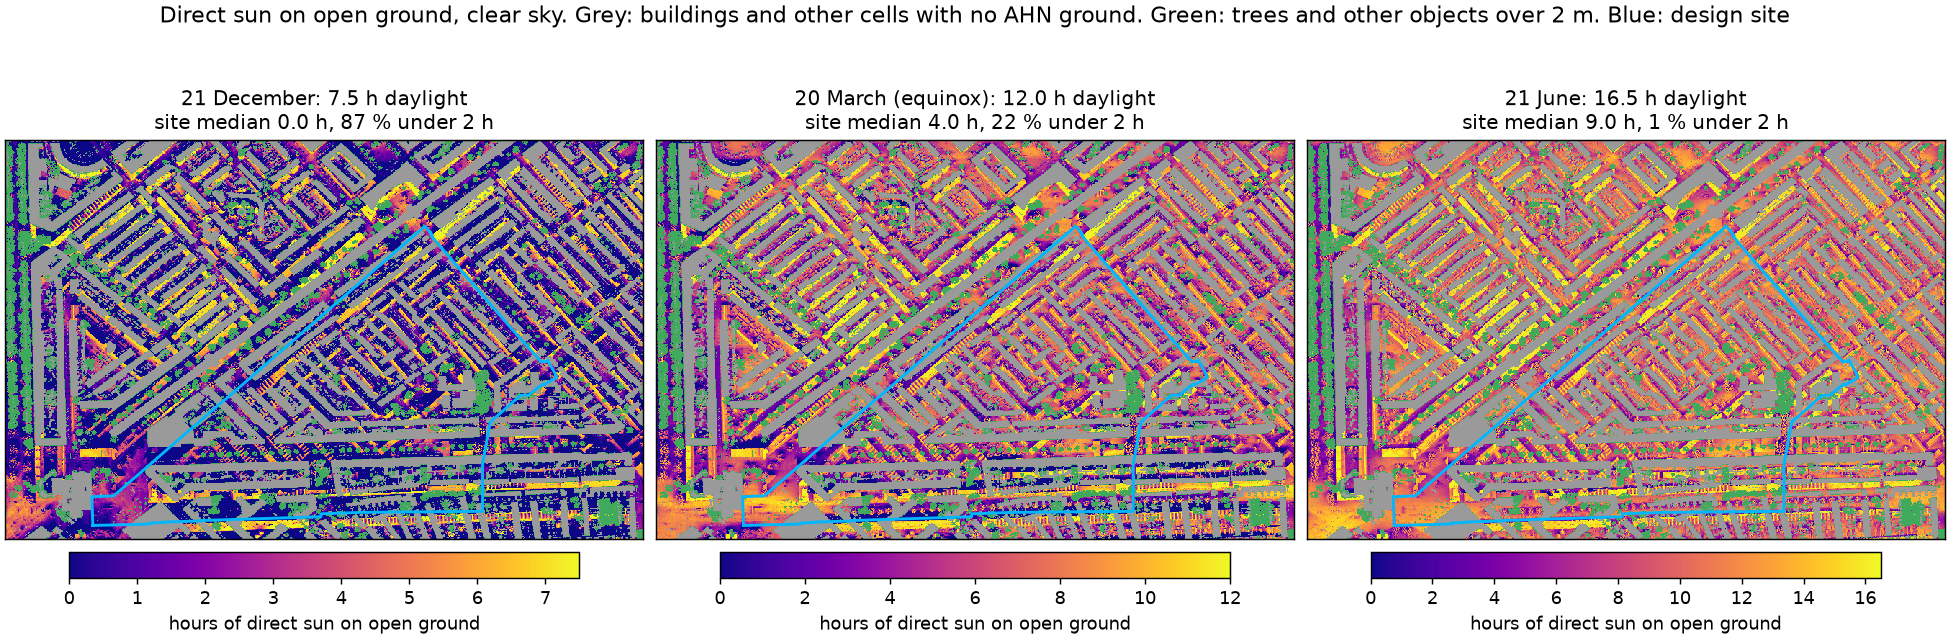
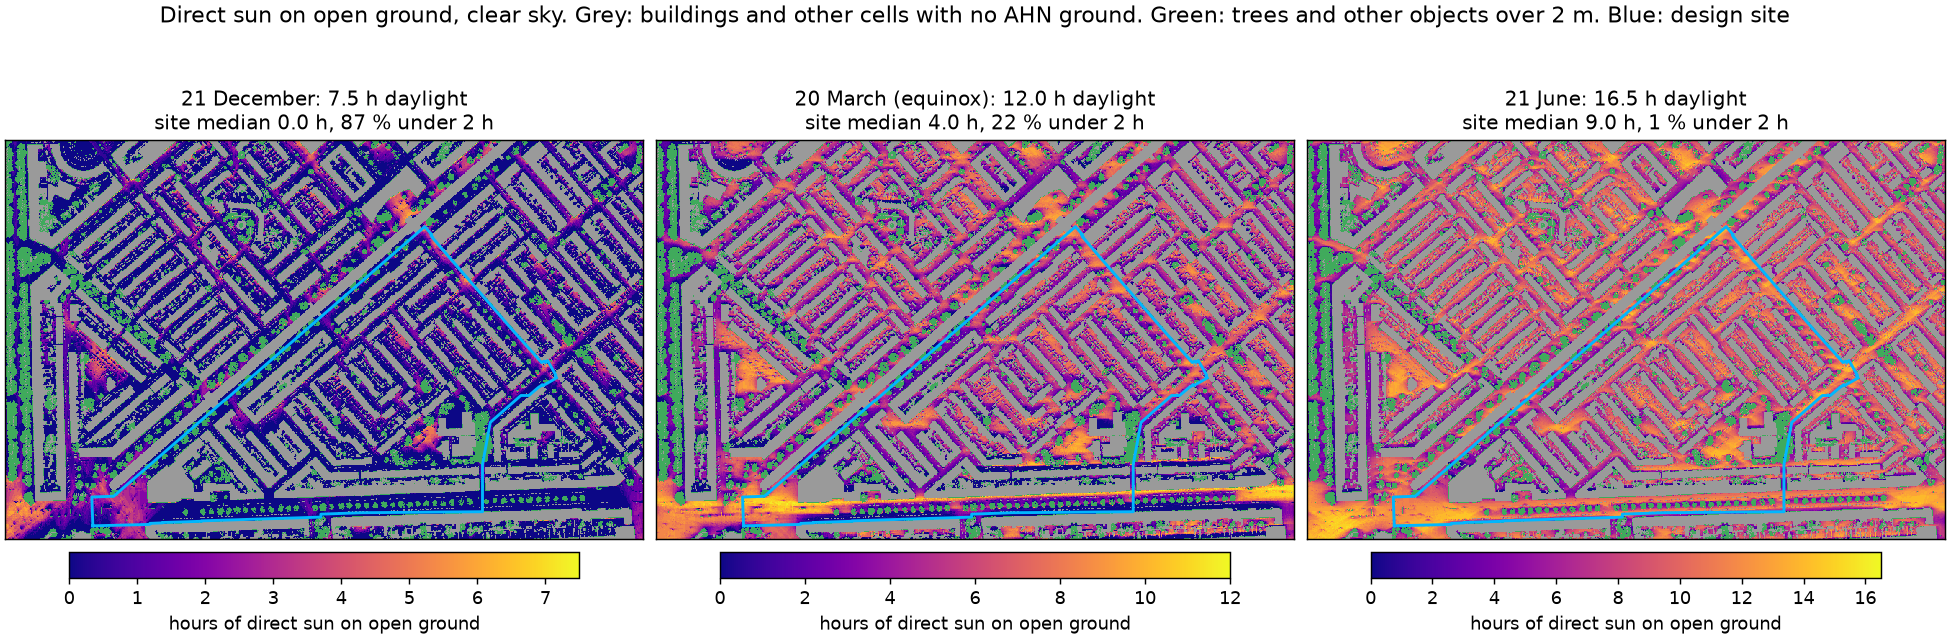
Sun-hours figure: grey building mask read over the sun raster's own extent, it was squeezed and drifted up to 30 m

diff --git a/analysis/morphology/shadow_figure.py b/analysis/morphology/shadow_figure.py
@@ -32,7 +32,8 @@ def main():
     import matplotlib.pyplot as plt
     import rasterio
     from rasterio.enums import Resampling
-    from rasterio.windows import from_bounds
+    from rasterio.transform import array_bounds
+    from rasterio.windows import Window, from_bounds  #Window: to cut the box to the raster
 
     site = design_site_polygon()
     x0, y0, x1, y1 = site.bounds
@@ -43,11 +44,15 @@ def main():
         tif = PROCESSED / f"shadow_hours{sfx}.tif"
         summ = json.loads((PROCESSED / f"shadow_summary{sfx}.json").read_text())
         with rasterio.open(tif) as src:
-            win = from_bounds(x0, y0, x1, y1, src.transform)
+            #whole cells, cut to the raster: the box runs past the raster's south edge
+            win = (from_bounds(x0, y0, x1, y1, src.transform).round_offsets().round_lengths()
+                   .intersection(Window(0, 0, src.width, src.height)))
             hours = src.read(1, window=win)
             wt = src.window_transform(win)
+        hb = array_bounds(*hours.shape, wt)  #what the hours array really covers
         with rasterio.open(RAW / "ahn_ndsm_05m.tif") as src:
-            ndsm = src.read(1, window=from_bounds(x0, y0, x1, y1, src.transform),
+            #read over the hours array's own bounds, so the two grids match cell for cell
+            ndsm = src.read(1, window=from_bounds(hb[0], hb[1], hb[2], hb[3], src.transform),
                             out_shape=hours.shape, resampling=Resampling.nearest,
                             masked=True).filled(np.nan)
         #Same mask as shadows.py's statistics. The AHN DTM is empty under
